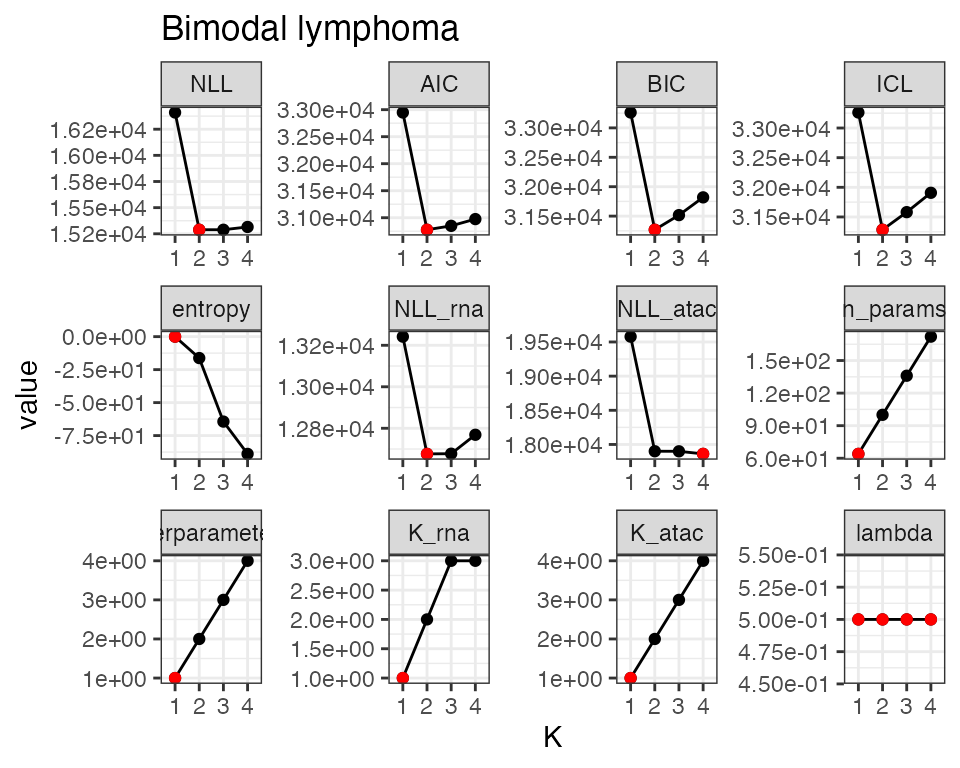
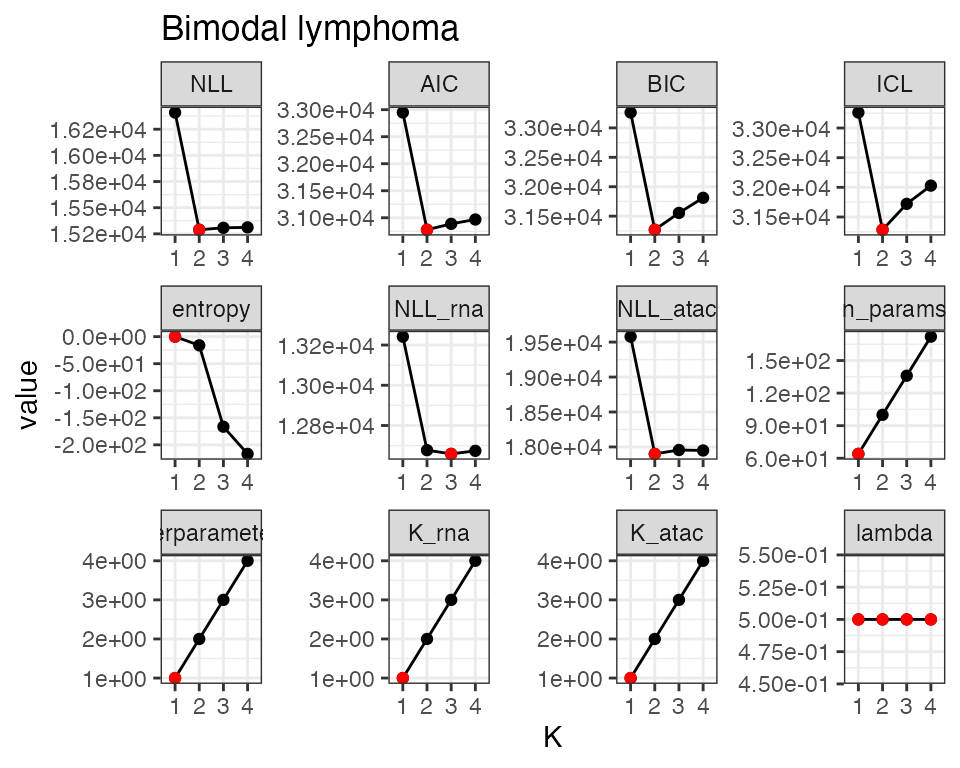
Fix bug in segment selection

diff --git a/docs/articles/Fitting.html b/docs/articles/Fitting.html
@@ -132,6 +132,8 @@ exploit Biomart:</p>
 <div class="sourceCode" id="cb5"><pre class="downlit sourceCode r">
 <code class="sourceCode R"><span><span class="kw"><a href="https://rdrr.io/r/base/library.html" class="external-link">library</a></span><span class="op">(</span><span class="va"><a href="https://github.com/grimbough/biomaRt" class="external-link">biomaRt</a></span><span class="op">)</span></span>
 <span><span class="va">ensembl</span> <span class="op">&lt;-</span> <span class="fu"><a href="https://rdrr.io/pkg/biomaRt/man/useEnsembl.html" class="external-link">useEnsembl</a></span><span class="op">(</span>biomart <span class="op">=</span> <span class="st">"genes"</span>, dataset <span class="op">=</span> <span class="st">"hsapiens_gene_ensembl"</span><span class="op">)</span></span>
+<span><span class="co">#&gt; Ensembl site unresponsive, trying uswest mirror</span></span>
+<span><span class="co">#&gt; Ensembl site unresponsive, trying useast mirror</span></span>
 <span><span class="va">z</span> <span class="op">&lt;-</span> <span class="fu"><a href="https://rdrr.io/pkg/biomaRt/man/getBM.html" class="external-link">getBM</a></span><span class="op">(</span><span class="fu"><a href="https://rdrr.io/r/base/c.html" class="external-link">c</a></span><span class="op">(</span><span class="st">"hgnc_symbol"</span>, <span class="st">'chromosome_name'</span>,<span class="st">'start_position'</span>,<span class="st">'end_position'</span><span class="op">)</span>, </span>
 <span>             filters <span class="op">=</span> <span class="st">"hgnc_symbol"</span>, </span>
 <span>             <span class="fu"><a href="https://rdrr.io/r/base/colnames.html" class="external-link">rownames</a></span><span class="op">(</span><span class="va">rna_counts</span><span class="op">)</span>, </span>
@@ -448,7 +450,7 @@ then we fit the model.</p>
 <span><span class="co">#&gt; </span></span>
 <span><span class="co">#&gt; ── Fit with k = <span style="color: #00BB00;">4</span> and lambda = <span style="color: #00BB00;">0.5</span>.</span></span>
 <span><span class="co">#&gt; </span></span>
-<span><span class="co">#&gt; ── <span style="font-weight: bold;">(R)CONGAS+ fits completed in </span><span style="color: #00BB00; font-weight: bold;">2m 58.4s</span><span style="font-weight: bold;">.</span> ──</span></span>
+<span><span class="co">#&gt; ── <span style="font-weight: bold;">(R)CONGAS+ fits completed in </span><span style="color: #00BB00; font-weight: bold;">3m 58.7s</span><span style="font-weight: bold;">.</span> ──</span></span>
 <span><span class="co">#&gt; </span></span>
 <span><span class="co">#&gt; <span style="color: #BB0000;">✖</span> <span style="color: #BB0000; font-weight: bold;">Warning</span> <span style="color: #BB0000;">ATAC 0-counts cells.</span> <span style="color: #00BB00;">2</span> cells have no data in any of <span style="color: #00BB00;">7</span> segments, top <span style="color: #00BB00;">2</span> with missing data are:</span></span>
 <span><span class="co">#&gt; <span style="color: #BB0000;">✖</span> Cell <span style="color: #00BB00;">GTCCTAGAGCCAAATC-1-ATAC</span> with <span style="color: #BB0000;">1</span> 0-segments (<span style="color: #BB0000;">14%</span>)</span></span>
@@ -466,10 +468,10 @@ then we fit the model.</p>
 <span><span class="co">#&gt; → RNA: <span style="color: #00BB00;">500</span> cells with <span style="color: #00BB00;">2085</span> mapped genes, <span style="color: #00BB00;">132025</span> non-zero values. Likelihood: <span style="color: #00BB00;">Negative Binomial</span>.</span></span>
 <span><span class="co">#&gt; → ATAC: <span style="color: #00BB00;">500</span> cells with <span style="color: #00BB00;">17994</span> mapped peaks, <span style="color: #00BB00;">485079</span> non-zero values. Likelihood: <span style="color: #00BB00;">Negative Binomial</span>.</span></span>
 <span><span class="co">#&gt; </span></span>
-<span><span class="co">#&gt; ── Clusters: <span style="color: #00BB00;">k = 2</span>, lambda: <span style="color: #00BB00;">l = 0.5</span>, model with <span style="color: #00BB00;">BIC</span> = 31268.11.</span></span>
+<span><span class="co">#&gt; ── Clusters: <span style="color: #00BB00;">k = 2</span>, lambda: <span style="color: #00BB00;">l = 0.5</span>, model with <span style="color: #00BB00;">BIC</span> = 31268.92.</span></span>
 <span><span class="co">#&gt; </span></span>
-<span><span class="co">#&gt;    C1   <span style="background-color: #BBBB00;"> </span>|<span style="background-color: #BBBB00;">  </span>|<span style="background-color: #BBBB00;"> </span>|<span style="background-color: #BBBB00;"> </span>|<span style="background-color: #BBBB00;"> </span>|<span style="background-color: #BBBB00;"> </span></span></span>
-<span><span class="co">#&gt;    C2   <span style="background-color: #BBBB00;"> </span>|<span style="background-color: #BBBB00;"> </span><span style="background-color: #00BB00;"> </span>|<span style="background-color: #00BB00;"> </span>|<span style="background-color: #00BB00;"> </span>|<span style="background-color: #BBBB00;"> </span>|<span style="background-color: #00BB00;"> </span></span></span>
+<span><span class="co">#&gt;    C1   <span style="background-color: #BBBB00;"> </span>|<span style="background-color: #00BB00;"> </span><span style="background-color: #BBBB00;"> </span>|<span style="background-color: #BBBB00;"> </span>|<span style="background-color: #BBBB00;"> </span>|<span style="background-color: #BBBB00;"> </span>|<span style="background-color: #BBBB00;"> </span></span></span>
+<span><span class="co">#&gt;    C2   <span style="background-color: #BBBB00;"> </span>|<span style="background-color: #00BB00;">  </span>|<span style="background-color: #00BB00;"> </span>|<span style="background-color: #00BB00;"> </span>|<span style="background-color: #BBBB00;"> </span>|<span style="background-color: #00BB00;"> </span></span></span>
 <span><span class="co">#&gt; </span></span>
 <span><span class="co">#&gt;     <span style="text-decoration: underline;">RNA</span> </span></span>
 <span><span class="co">#&gt;   C1 :  ■■■■■■ n = 117 </span></span>
@@ -480,8 +482,8 @@ then we fit the model.</p>
 <span><span class="co">#&gt; </span></span>
 <span><span class="co">#&gt; ── <span style="color: #BBBBBB; background-color: #BB00BB; font-weight: bold;"> LOG </span> ──</span></span>
 <span><span class="co">#&gt; </span></span>
-<span><span class="co">#&gt; - 2023-07-22 19:26:10.20683 Created input object.</span></span>
-<span><span class="co">#&gt; - 2023-07-22 19:26:11.01248 Filtered s123egments: [0|50|50]</span></span></code></pre></div>
+<span><span class="co">#&gt; - 2023-10-16 17:30:01.756744 Created input object.</span></span>
+<span><span class="co">#&gt; - 2023-10-16 17:30:02.54356 Filtered s123egments: [0|50|50]</span></span></code></pre></div>
 <p>The new object has more information.</p>
 <div class="sourceCode" id="cb17"><pre class="downlit sourceCode r">
 <code class="sourceCode R"><span><span class="va">fit_filt</span></span>
@@ -501,10 +503,10 @@ then we fit the model.</p>
 <span><span class="co">#&gt; → RNA: <span style="color: #00BB00;">500</span> cells with <span style="color: #00BB00;">2085</span> mapped genes, <span style="color: #00BB00;">132025</span> non-zero values. Likelihood: <span style="color: #00BB00;">Negative Binomial</span>.</span></span>
 <span><span class="co">#&gt; → ATAC: <span style="color: #00BB00;">500</span> cells with <span style="color: #00BB00;">17994</span> mapped peaks, <span style="color: #00BB00;">485079</span> non-zero values. Likelihood: <span style="color: #00BB00;">Negative Binomial</span>.</span></span>
 <span><span class="co">#&gt; </span></span>
-<span><span class="co">#&gt; ── Clusters: <span style="color: #00BB00;">k = 2</span>, lambda: <span style="color: #00BB00;">l = 0.5</span>, model with <span style="color: #00BB00;">BIC</span> = 31268.11.</span></span>
+<span><span class="co">#&gt; ── Clusters: <span style="color: #00BB00;">k = 2</span>, lambda: <span style="color: #00BB00;">l = 0.5</span>, model with <span style="color: #00BB00;">BIC</span> = 31268.92.</span></span>
 <span><span class="co">#&gt; </span></span>
-<span><span class="co">#&gt;    C1   <span style="background-color: #BBBB00;"> </span>|<span style="background-color: #BBBB00;">  </span>|<span style="background-color: #BBBB00;"> </span>|<span style="background-color: #BBBB00;"> </span>|<span style="background-color: #BBBB00;"> </span>|<span style="background-color: #BBBB00;"> </span></span></span>
-<span><span class="co">#&gt;    C2   <span style="background-color: #BBBB00;"> </span>|<span style="background-color: #BBBB00;"> </span><span style="background-color: #00BB00;"> </span>|<span style="background-color: #00BB00;"> </span>|<span style="background-color: #00BB00;"> </span>|<span style="background-color: #BBBB00;"> </span>|<span style="background-color: #00BB00;"> </span></span></span>
+<span><span class="co">#&gt;    C1   <span style="background-color: #BBBB00;"> </span>|<span style="background-color: #00BB00;"> </span><span style="background-color: #BBBB00;"> </span>|<span style="background-color: #BBBB00;"> </span>|<span style="background-color: #BBBB00;"> </span>|<span style="background-color: #BBBB00;"> </span>|<span style="background-color: #BBBB00;"> </span></span></span>
+<span><span class="co">#&gt;    C2   <span style="background-color: #BBBB00;"> </span>|<span style="background-color: #00BB00;">  </span>|<span style="background-color: #00BB00;"> </span>|<span style="background-color: #00BB00;"> </span>|<span style="background-color: #BBBB00;"> </span>|<span style="background-color: #00BB00;"> </span></span></span>
 <span><span class="co">#&gt; </span></span>
 <span><span class="co">#&gt;     <span style="text-decoration: underline;">RNA</span> </span></span>
 <span><span class="co">#&gt;   C1 :  ■■■■■■ n = 117 </span></span>
@@ -515,8 +517,8 @@ then we fit the model.</p>
 <span><span class="co">#&gt; </span></span>
 <span><span class="co">#&gt; ── <span style="color: #BBBBBB; background-color: #BB00BB; font-weight: bold;"> LOG </span> ──</span></span>
 <span><span class="co">#&gt; </span></span>
-<span><span class="co">#&gt; - 2023-07-22 19:26:10.20683 Created input object.</span></span>
-<span><span class="co">#&gt; - 2023-07-22 19:26:11.01248 Filtered s123egments: [0|50|50]</span></span></code></pre></div>
+<span><span class="co">#&gt; - 2023-10-16 17:30:01.756744 Created input object.</span></span>
+<span><span class="co">#&gt; - 2023-10-16 17:30:02.54356 Filtered s123egments: [0|50|50]</span></span></code></pre></div>
 <p>You can get the information regarding model selection metrics</p>
 <div class="sourceCode" id="cb18"><pre class="downlit sourceCode r">
 <code class="sourceCode R"><span><span class="va">fit_filt</span><span class="op">$</span><span class="va">model_selection</span></span>
@@ -524,9 +526,9 @@ then we fit the model.</p>
 <span><span class="co">#&gt;      NLL    AIC    BIC    ICL  entropy NLL_rna NLL_atac n_params n_observations</span></span>
 <span><span class="co">#&gt;    <span style="color: #949494; font-style: italic;">&lt;dbl&gt;</span>  <span style="color: #949494; font-style: italic;">&lt;dbl&gt;</span>  <span style="color: #949494; font-style: italic;">&lt;dbl&gt;</span>  <span style="color: #949494; font-style: italic;">&lt;dbl&gt;</span>    <span style="color: #949494; font-style: italic;">&lt;dbl&gt;</span>   <span style="color: #949494; font-style: italic;">&lt;dbl&gt;</span>    <span style="color: #949494; font-style: italic;">&lt;dbl&gt;</span>    <span style="color: #949494; font-style: italic;">&lt;dbl&gt;</span>          <span style="color: #949494; font-style: italic;">&lt;int&gt;</span></span></span>
 <span><span class="co">#&gt; <span style="color: #BCBCBC;">1</span> <span style="text-decoration: underline;">16</span>410. <span style="text-decoration: underline;">32</span>948. <span style="text-decoration: underline;">33</span>262. <span style="text-decoration: underline;">33</span>262.  5.00<span style="color: #949494;">e</span><span style="color: #BB0000;">-8</span>  <span style="text-decoration: underline;">13</span>242.   <span style="text-decoration: underline;">19</span>578.       64           <span style="text-decoration: underline;">1</span>000</span></span>
-<span><span class="co">#&gt; <span style="color: #BCBCBC;">2</span> <span style="text-decoration: underline;">15</span>289. <span style="text-decoration: underline;">30</span>777. <span style="text-decoration: underline;">31</span>268. <span style="text-decoration: underline;">31</span>284. -<span style="color: #BB0000;">1.62</span><span style="color: #949494;">e</span>+1  <span style="text-decoration: underline;">12</span>676.   <span style="text-decoration: underline;">17</span>901.      100           <span style="text-decoration: underline;">1</span>000</span></span>
-<span><span class="co">#&gt; <span style="color: #BCBCBC;">3</span> <span style="text-decoration: underline;">15</span>289. <span style="text-decoration: underline;">30</span>849. <span style="text-decoration: underline;">31</span>517. <span style="text-decoration: underline;">31</span>581. -<span style="color: #BB0000;">6.44</span><span style="color: #949494;">e</span>+1  <span style="text-decoration: underline;">12</span>677.   <span style="text-decoration: underline;">17</span>900.      136           <span style="text-decoration: underline;">1</span>000</span></span>
-<span><span class="co">#&gt; <span style="color: #BCBCBC;">4</span> <span style="text-decoration: underline;">15</span>315. <span style="text-decoration: underline;">30</span>975. <span style="text-decoration: underline;">31</span>819. <span style="text-decoration: underline;">31</span>908. -<span style="color: #BB0000;">8.89</span><span style="color: #949494;">e</span>+1  <span style="text-decoration: underline;">12</span>769.   <span style="text-decoration: underline;">17</span>862.      172           <span style="text-decoration: underline;">1</span>000</span></span>
+<span><span class="co">#&gt; <span style="color: #BCBCBC;">2</span> <span style="text-decoration: underline;">15</span>289. <span style="text-decoration: underline;">30</span>778. <span style="text-decoration: underline;">31</span>269. <span style="text-decoration: underline;">31</span>285. -<span style="color: #BB0000;">1.60</span><span style="color: #949494;">e</span>+1  <span style="text-decoration: underline;">12</span>678.   <span style="text-decoration: underline;">17</span>901.      100           <span style="text-decoration: underline;">1</span>000</span></span>
+<span><span class="co">#&gt; <span style="color: #BCBCBC;">3</span> <span style="text-decoration: underline;">15</span>308. <span style="text-decoration: underline;">30</span>887. <span style="text-decoration: underline;">31</span>555. <span style="text-decoration: underline;">31</span>721. -<span style="color: #BB0000;">1.67</span><span style="color: #949494;">e</span>+2  <span style="text-decoration: underline;">12</span>659.   <span style="text-decoration: underline;">17</span>957.      136           <span style="text-decoration: underline;">1</span>000</span></span>
+<span><span class="co">#&gt; <span style="color: #BCBCBC;">4</span> <span style="text-decoration: underline;">15</span>312. <span style="text-decoration: underline;">30</span>968. <span style="text-decoration: underline;">31</span>812. <span style="text-decoration: underline;">32</span>029. -<span style="color: #BB0000;">2.17</span><span style="color: #949494;">e</span>+2  <span style="text-decoration: underline;">12</span>674.   <span style="text-decoration: underline;">17</span>950.      172           <span style="text-decoration: underline;">1</span>000</span></span>
 <span><span class="co">#&gt; <span style="color: #949494;"># ℹ 5 more variables: hyperparameter_K &lt;int&gt;, K &lt;int&gt;, K_rna &lt;int&gt;,</span></span></span>
 <span><span class="co">#&gt; <span style="color: #949494;">#   K_atac &lt;int&gt;, lambda &lt;dbl&gt;</span></span></span></code></pre></div>
 <div class="sourceCode" id="cb19"><pre class="downlit sourceCode r">

diff --git a/docs/articles/Rcongas.html b/docs/articles/Rcongas.html
@@ -271,7 +271,7 @@ range of the segment</li>
 <span><span class="co">#&gt; </span></span>
 <span><span class="co">#&gt; ── <span style="color: #BBBBBB; background-color: #BB00BB; font-weight: bold;"> LOG </span> ──</span></span>
 <span><span class="co">#&gt; </span></span>
-<span><span class="co">#&gt; - 2023-07-22 19:53:32.524927 Created input object.</span></span>
+<span><span class="co">#&gt; - 2023-10-16 18:00:42.101435 Created input object.</span></span>
 <span><span class="co">#&gt; [1] 0</span></span></code></pre></div>
 <!-- ```{r, fig.width=6, fig.height=6} -->
 <!-- # Select the first 5 segments to plot -->
@@ -363,7 +363,7 @@ discrete likelihood for counts (Negative Binomial,
 <span><span class="co">#&gt; </span></span>
 <span><span class="co">#&gt; ── <span style="color: #BBBBBB; background-color: #BB00BB; font-weight: bold;"> LOG </span> ──</span></span>
 <span><span class="co">#&gt; </span></span>
-<span><span class="co">#&gt; - 2023-07-22 19:53:36.542988 Created input object.</span></span>
+<span><span class="co">#&gt; - 2023-10-16 18:00:45.363367 Created input object.</span></span>
 <span><span class="co">#&gt; [1] 0</span></span></code></pre></div>
 <!-- ```{r, fig.width=6, fig.height=6} -->
 <!-- plot_data(x, what = 'histogram', segments = some_segments) -->

diff --git a/docs/reference/filter_outliers.html b/docs/reference/filter_outliers.html
@@ -174,7 +174,7 @@ removed.</p>
 <span class="r-msg co"><span class="r-pr">#&gt;</span> </span>
 <span class="r-out co"><span class="r-pr">#&gt;</span> - 2021-03-30 17:58:41 Created input object.</span>
 <span class="r-out co"><span class="r-pr">#&gt;</span> - 2021-03-30 17:58:43 Filtered outliers: [6|0.05|0.95]</span>
-<span class="r-out co"><span class="r-pr">#&gt;</span> - 2023-10-16 11:54:00.286442 Filtered outliers: [6|0.03|0.97]</span>
+<span class="r-out co"><span class="r-pr">#&gt;</span> - 2023-10-16 17:29:16.152985 Filtered outliers: [6|0.03|0.97]</span>
 <span class="r-out co"><span class="r-pr">#&gt;</span> [1] 0</span>
 <span class="r-in"><span></span></span>
 <span class="r-in"><span><span class="va">example_object</span> <span class="op"><a href="pipe.html">%&gt;%</a></span> </span></span>
